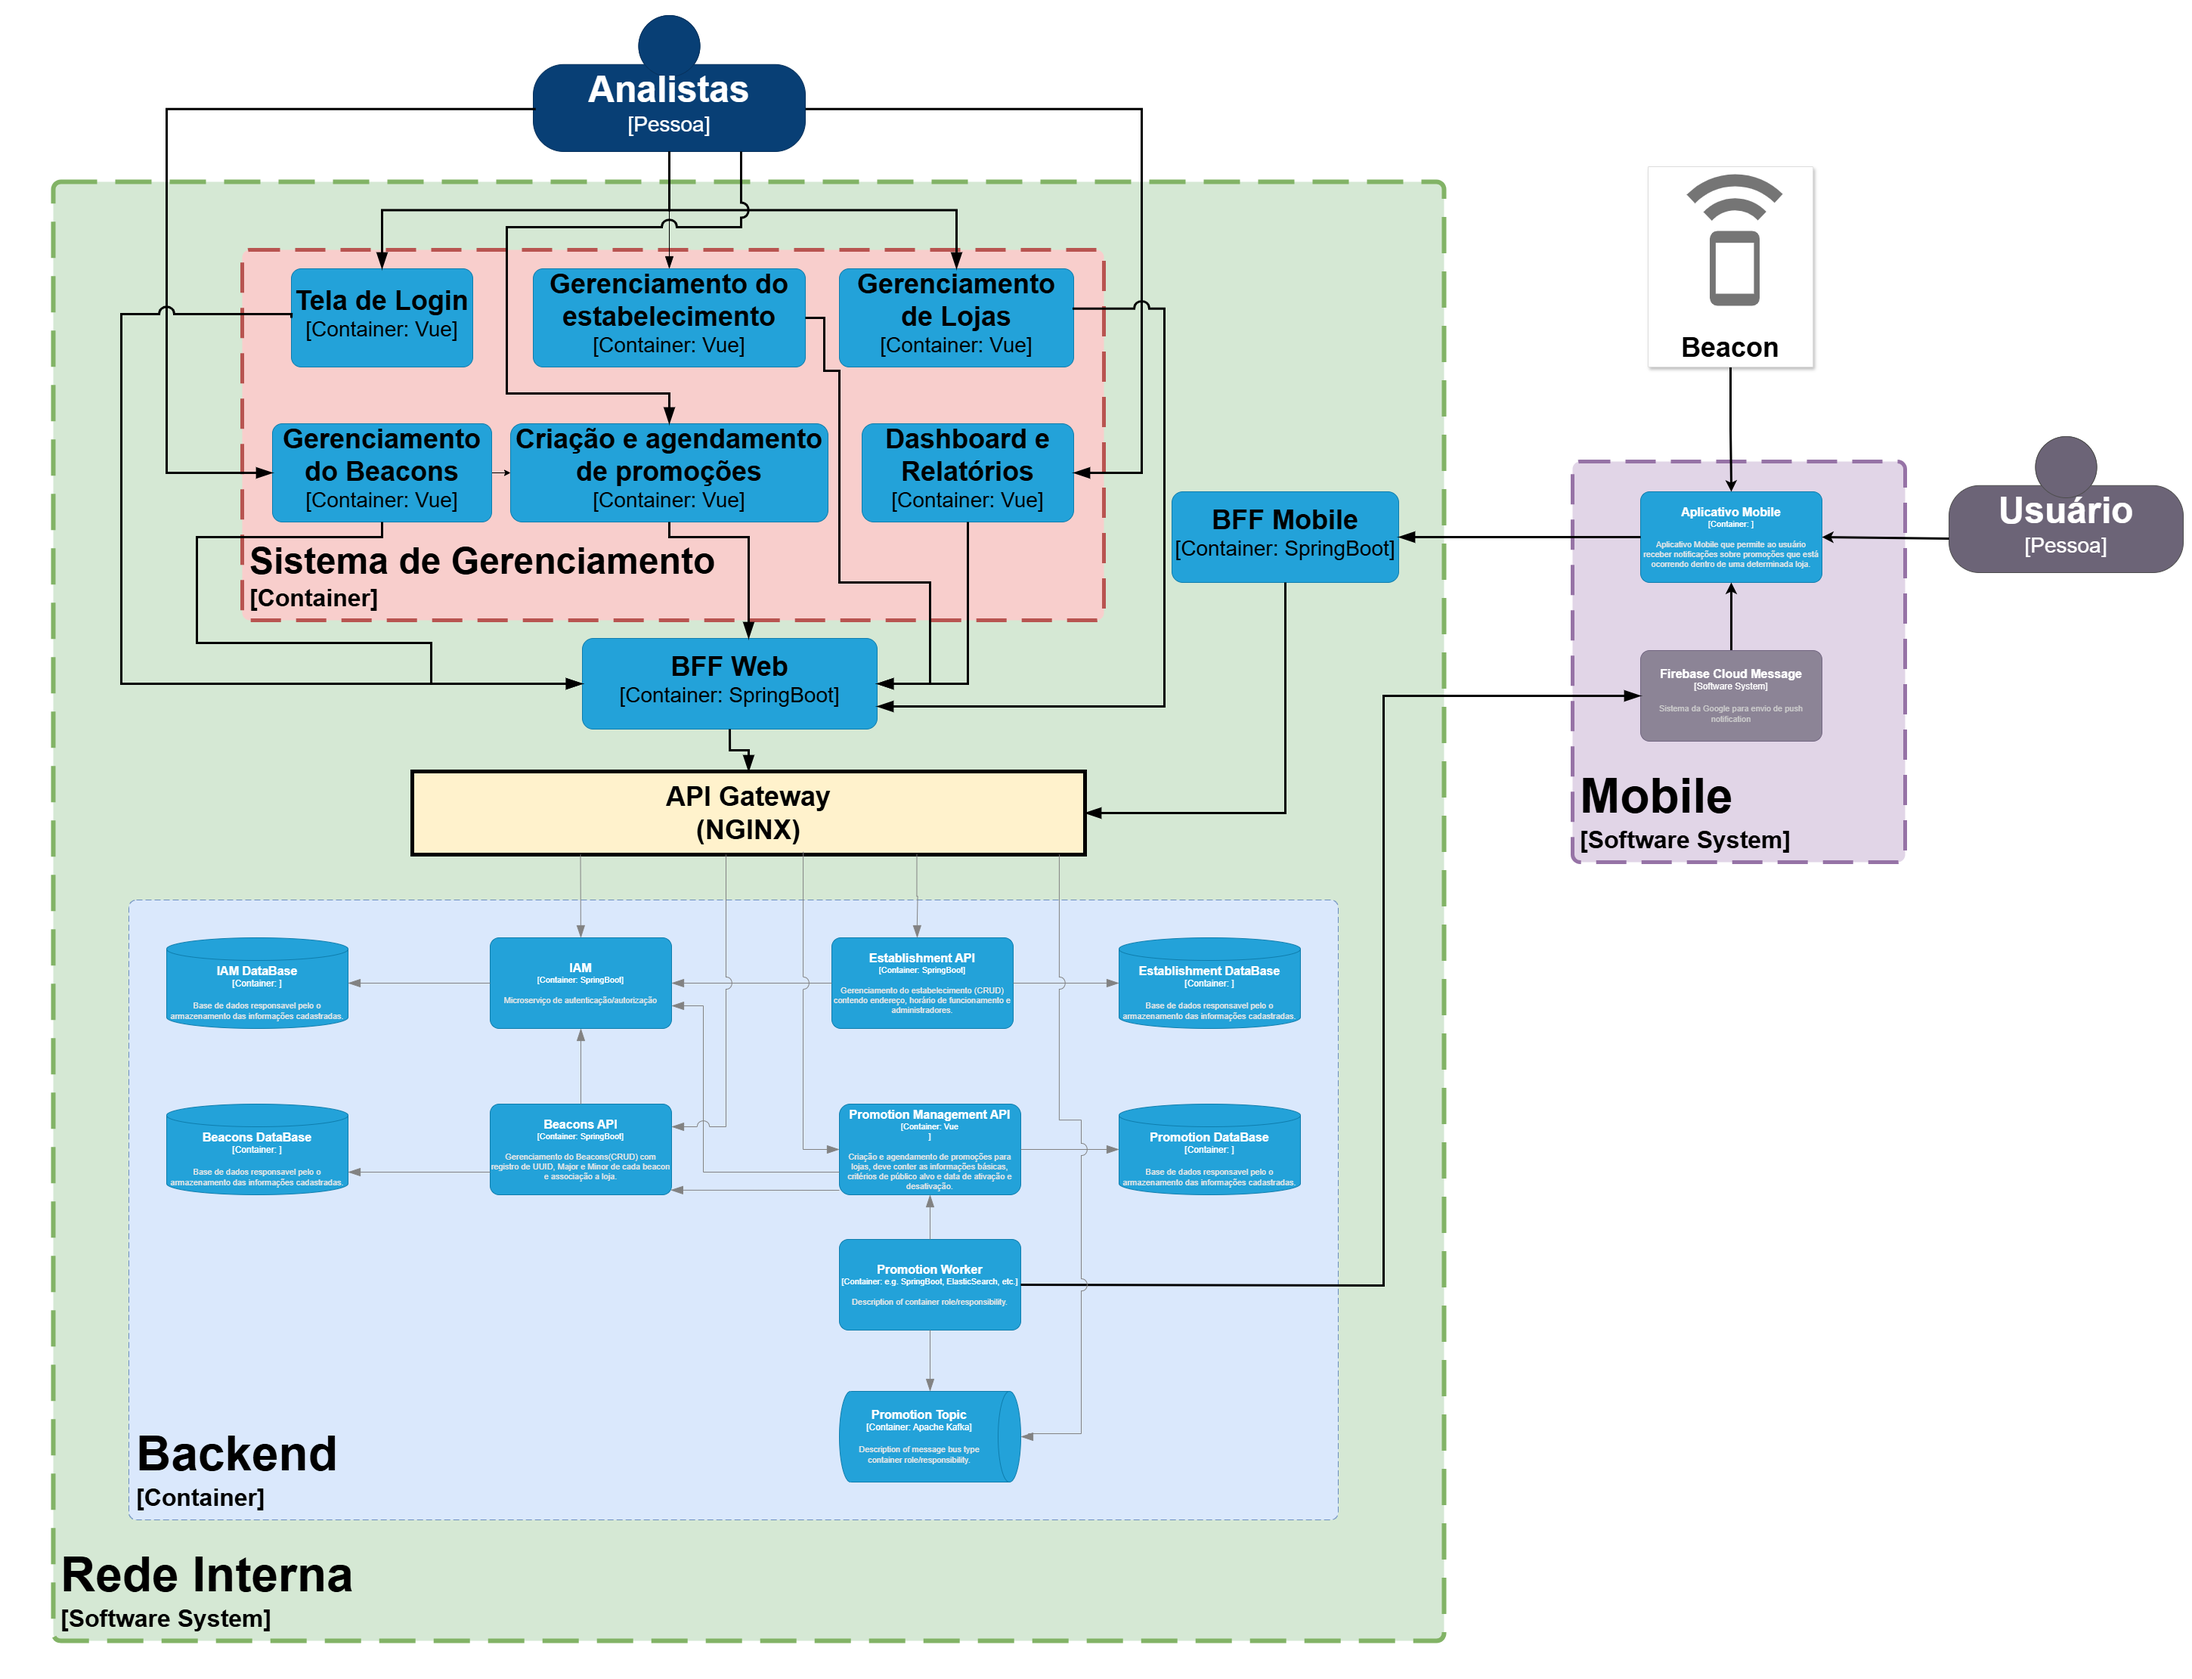
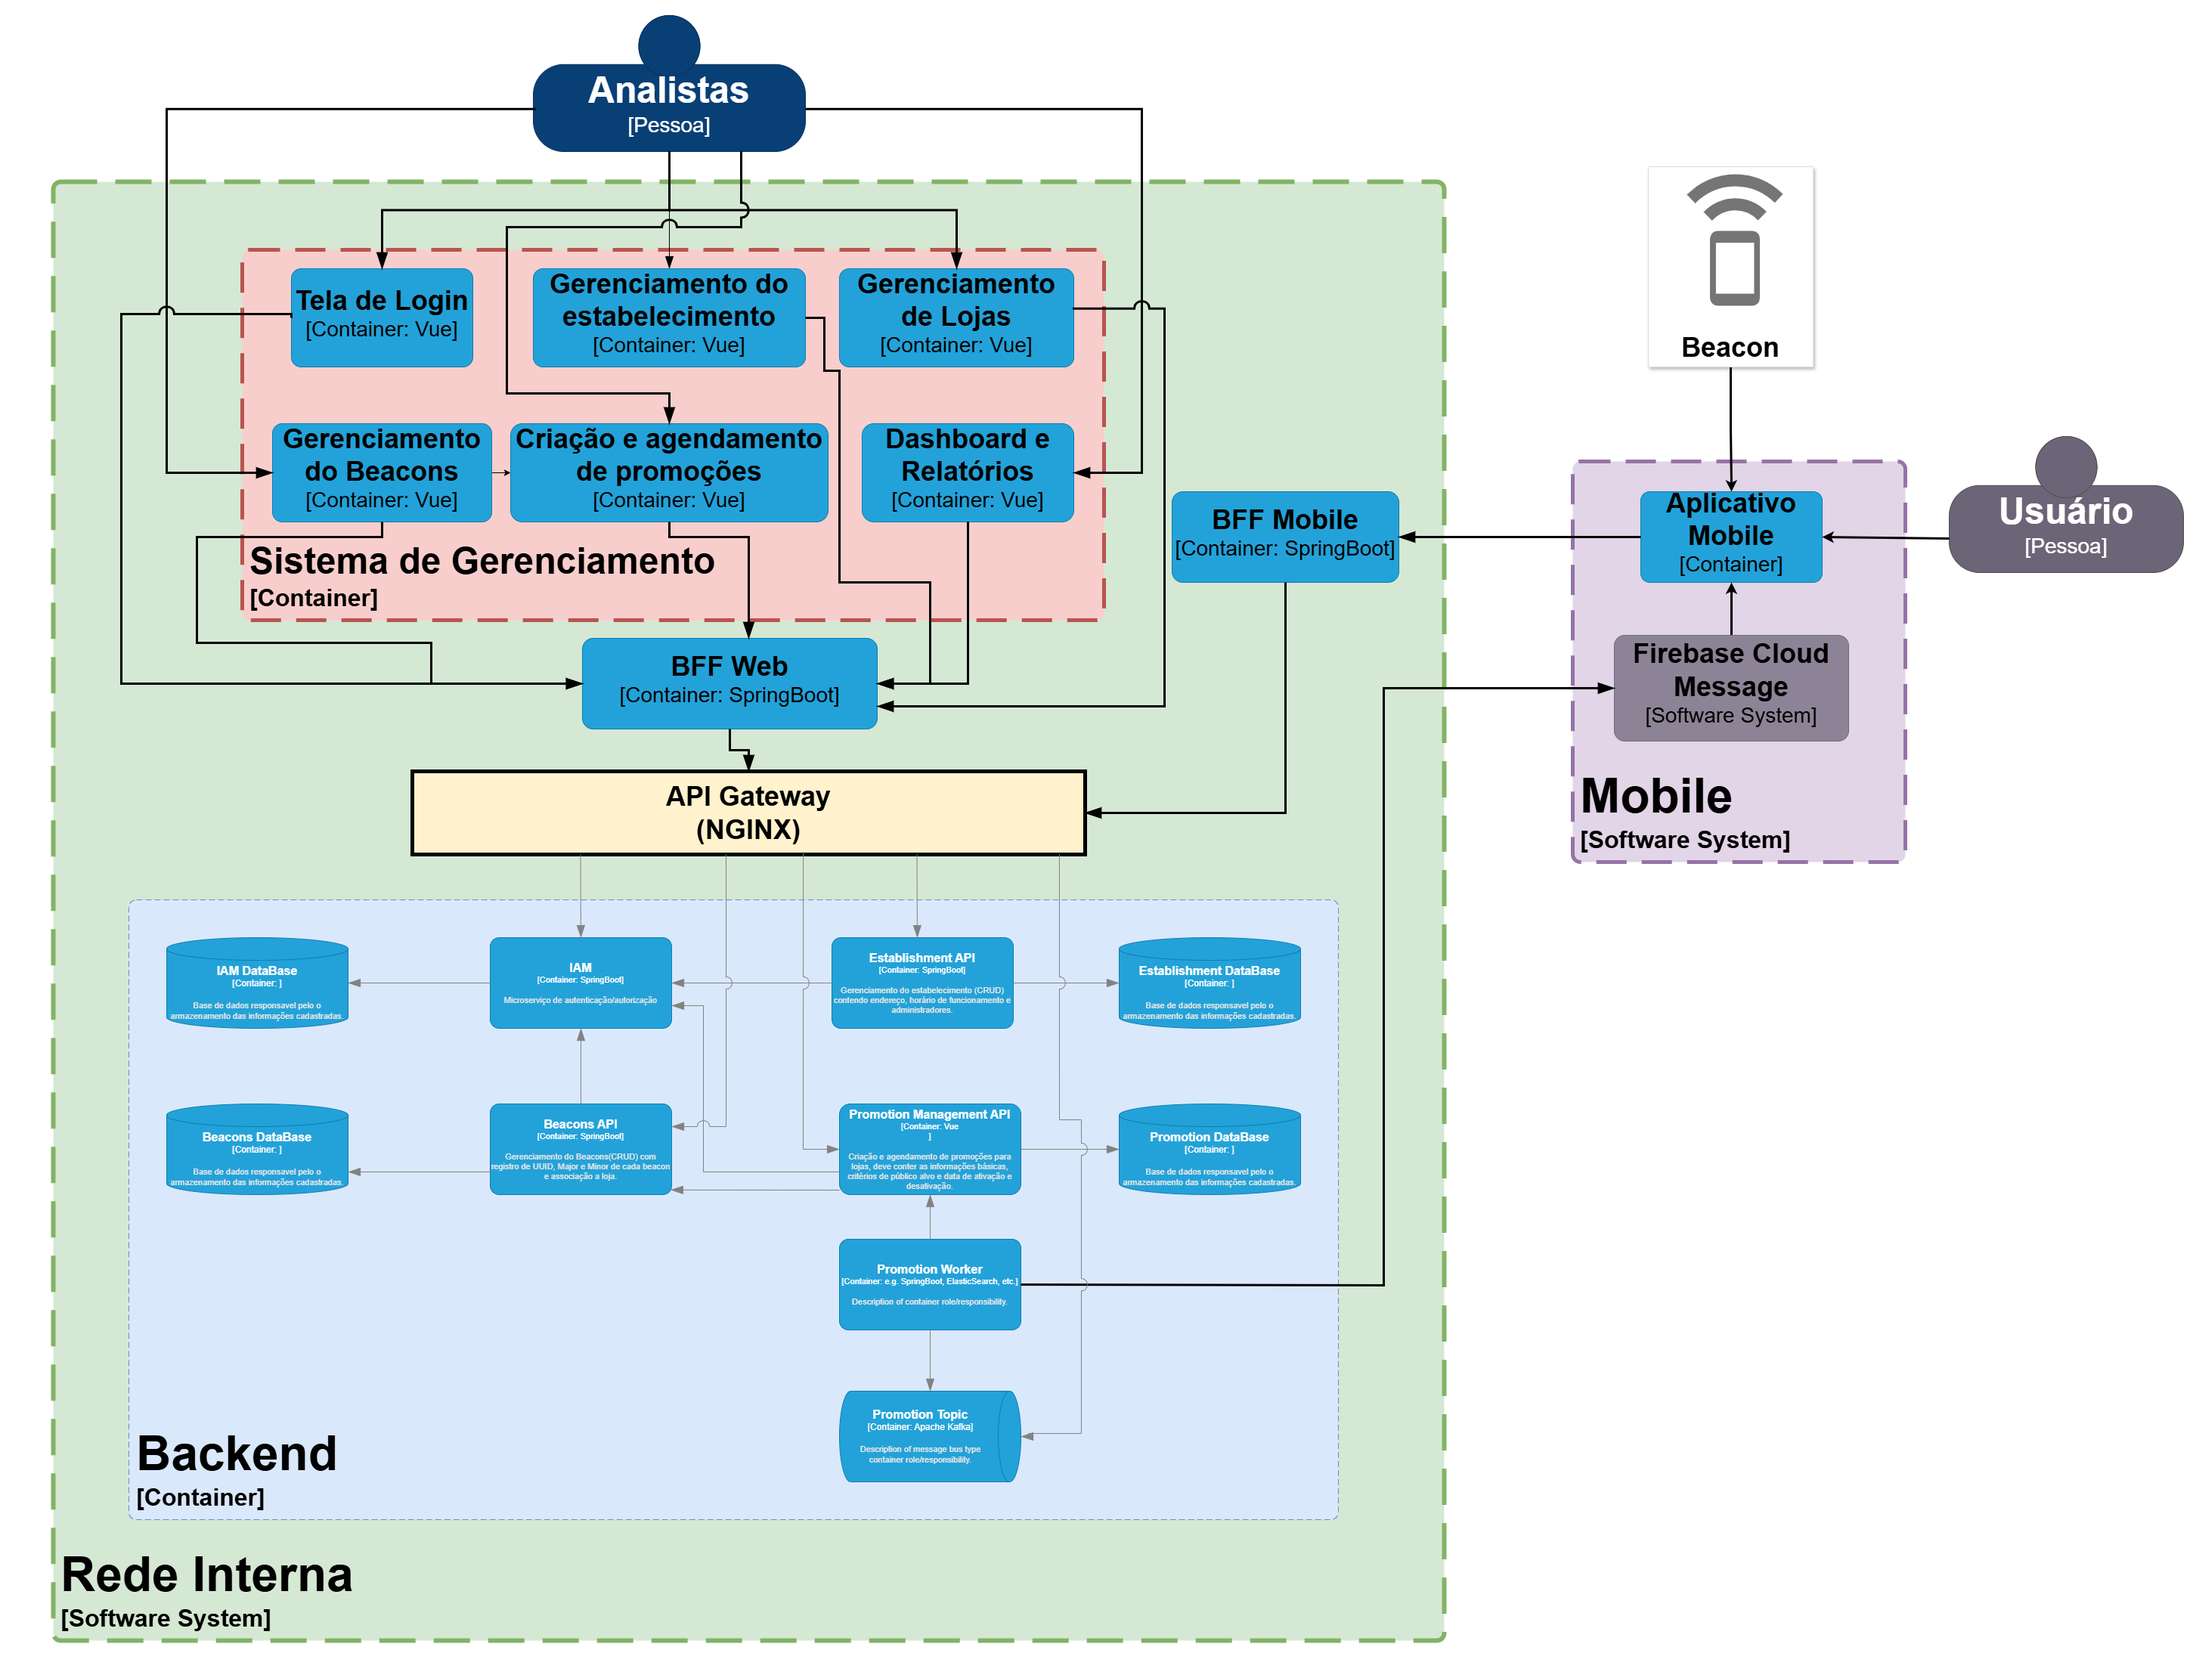
Atualização do container de aplicação mobile

diff --git a/README.md b/README.md
@@ -45,7 +45,10 @@ Os elementos do sistema de gerenciamento são:
 
 ## Aplicativo mobile
 
- **Usuário**: Pessoa que tem o aplicativo de cupons instalado no seu celular.
+- **Usuário**: Pessoa que tem o aplicativo de cupons instalado no seu celular.
+- **Aplicativo Mobile**: Aplicativo Mobile que permite ao usuário receber notificações sobre promoções que está ocorrendo dentro de uma determinada loja.
+- **Firebase Cloud Message**: Sistema da Google para envio de push notification
+
 
 ## Backend
 
